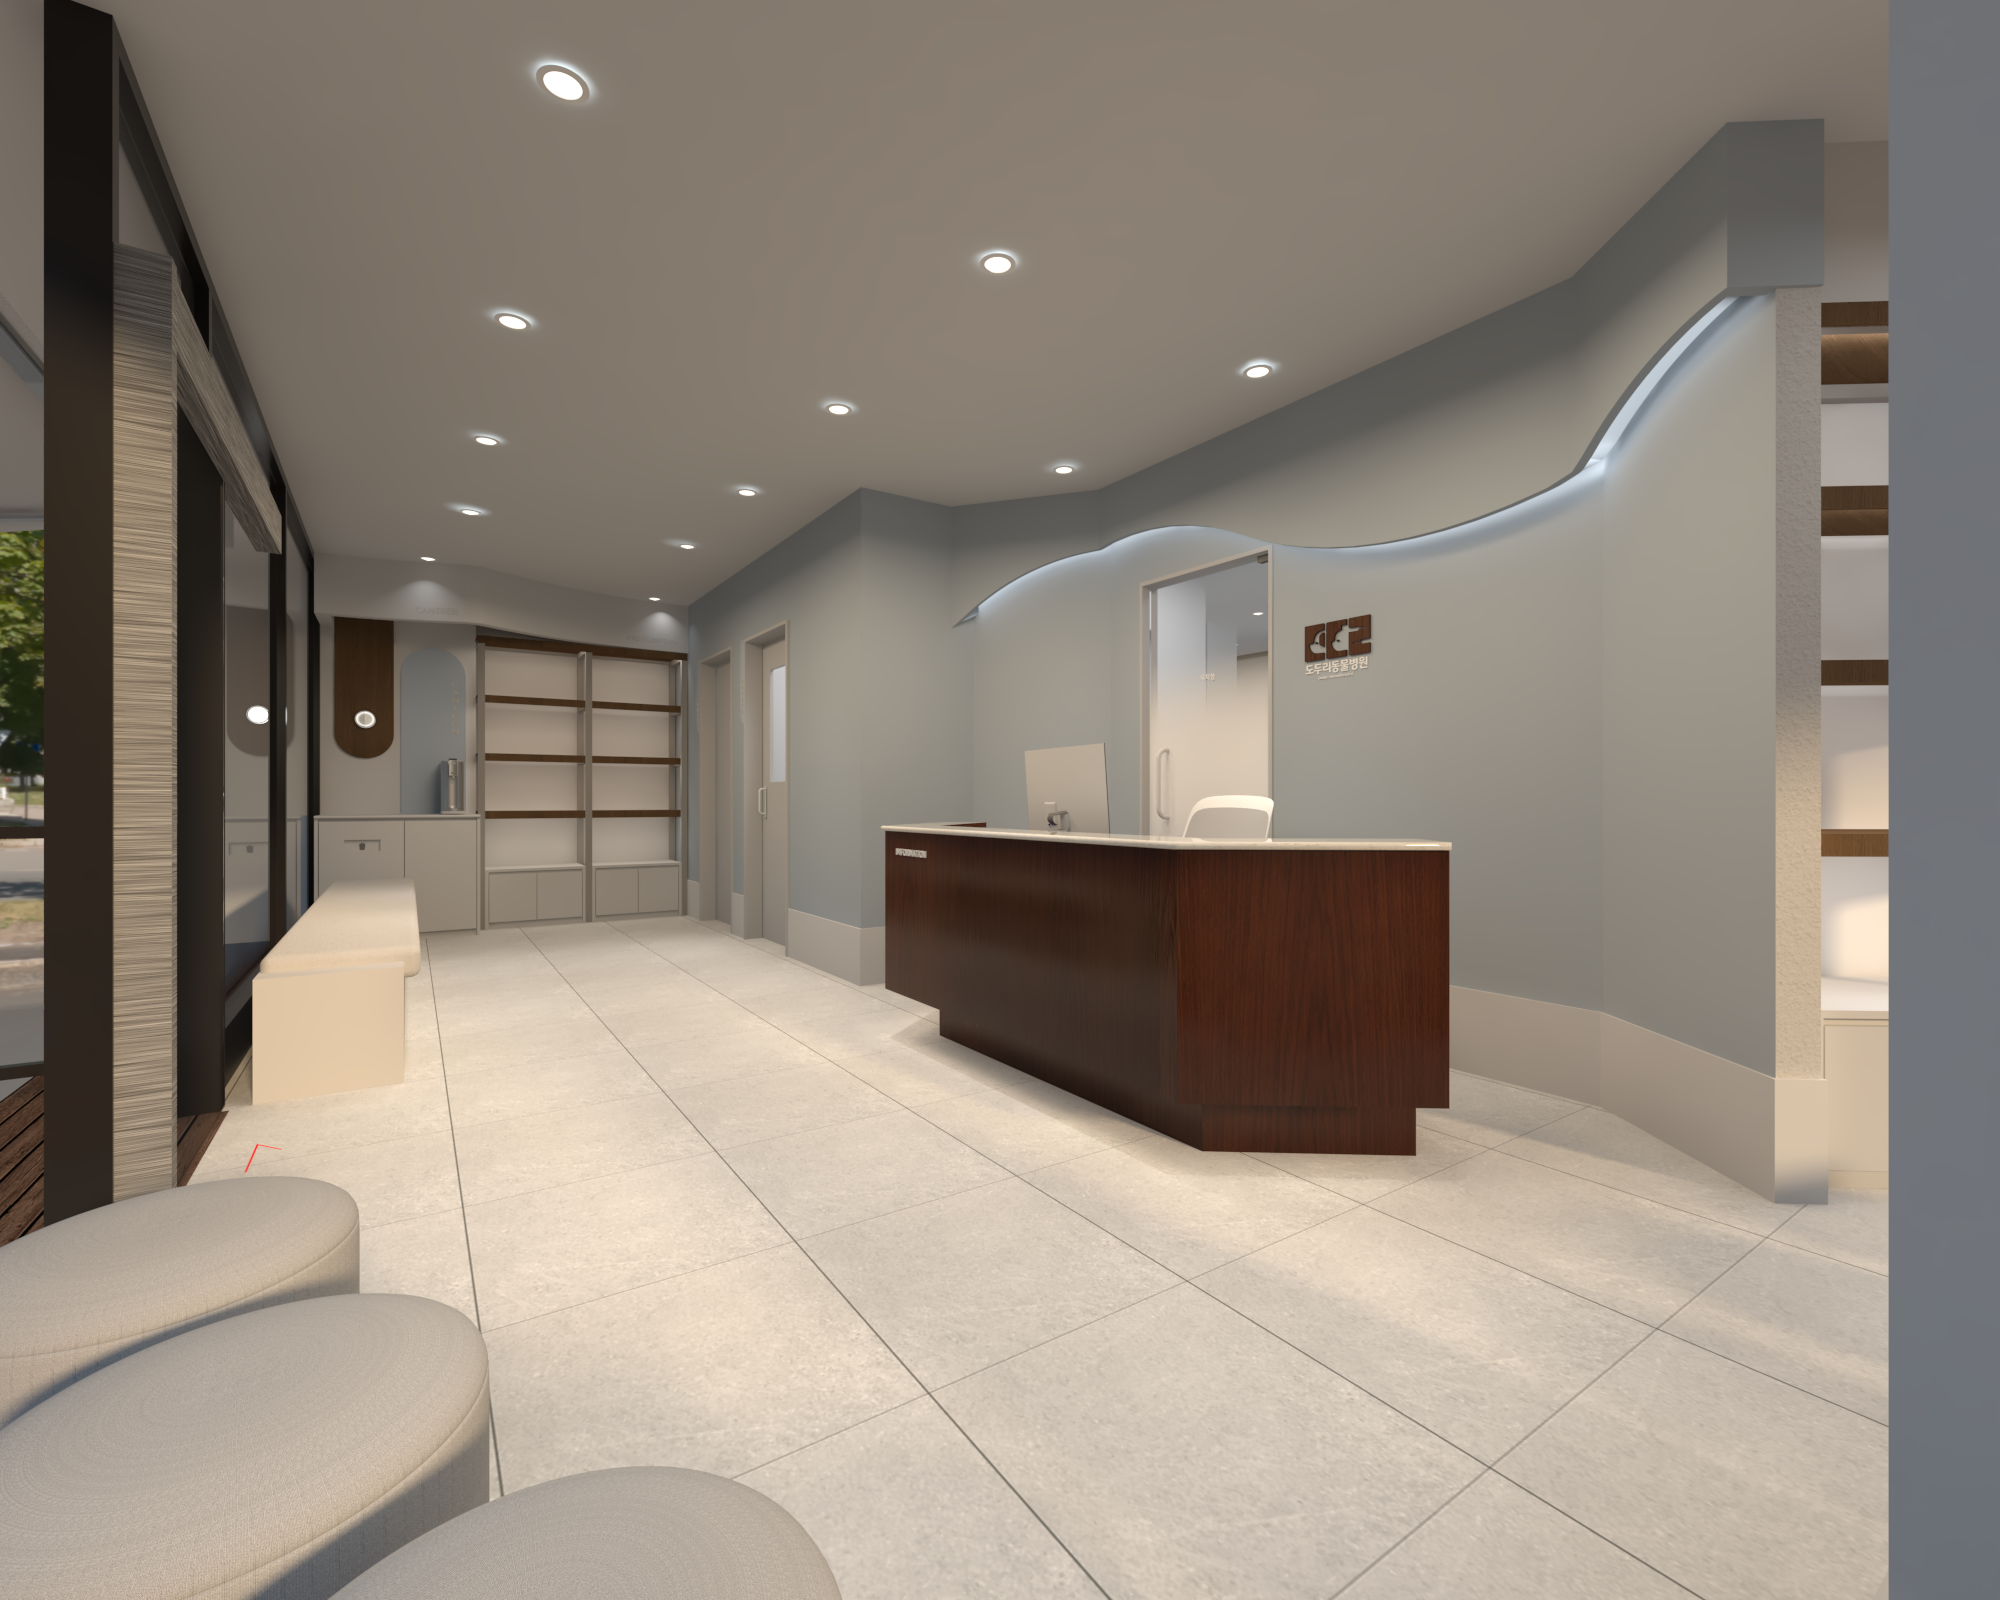
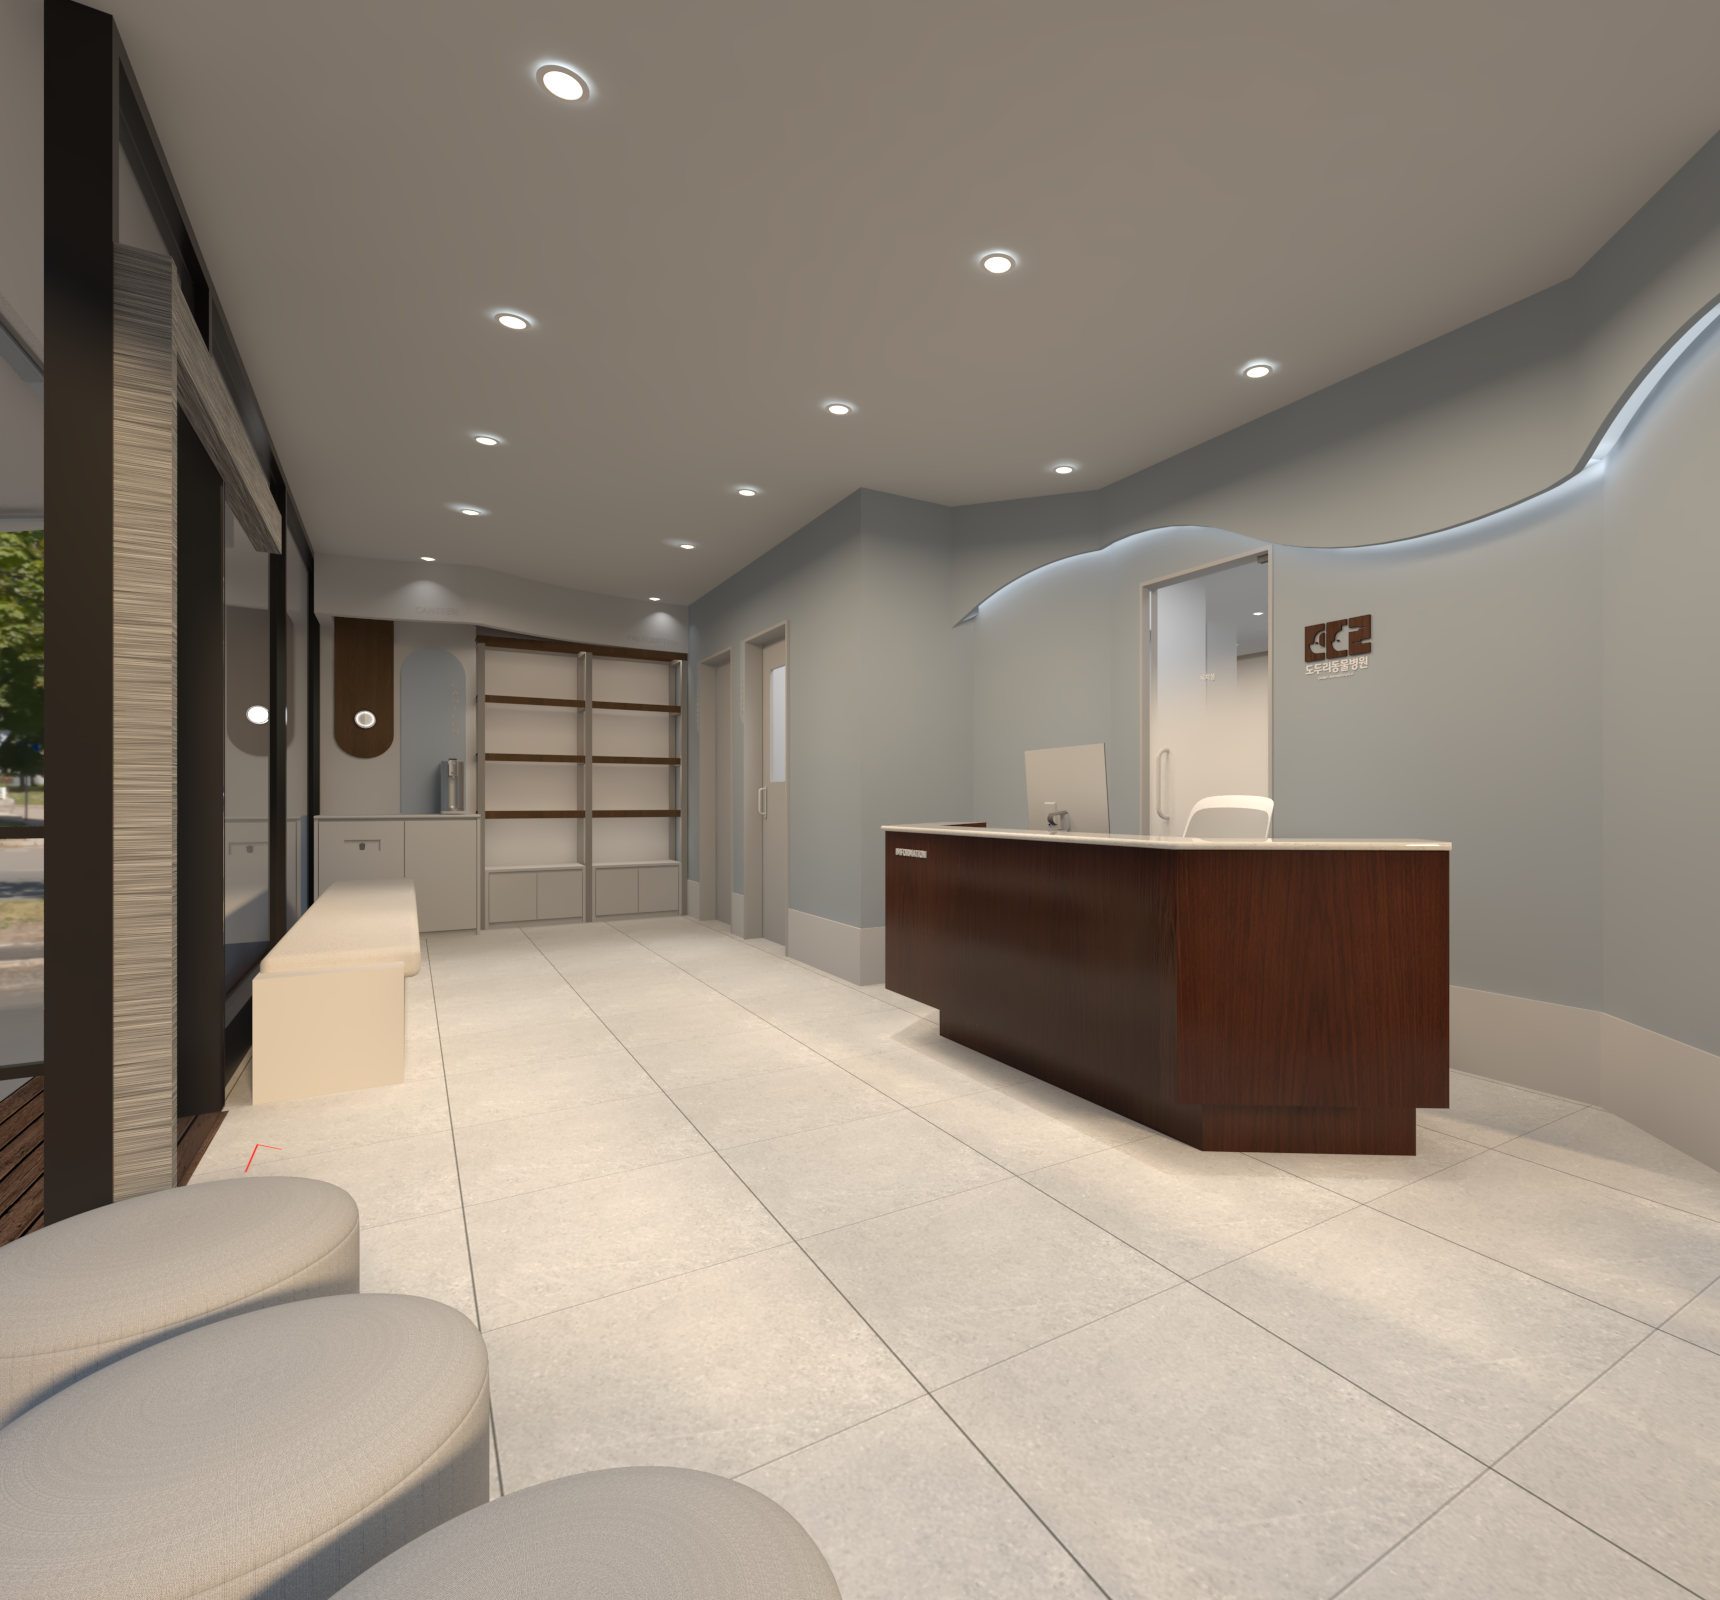
feat(home): 메인 히어로 슬라이더 화살표·UX 개선
- 히어로 슬라이더 좌우 화살표 추가 (position: fixed, right 24px 플로팅 버튼과 동일 선상)
- 히어로 영역 벗어나면 화살표 자동 숨김
- 마우스 드래그·터치 스와이프로 슬라이드 전환
- 도트 인디케이터: 원형 → 슬림 바 스타일, 흰색, 스크롤 힌트와 분리
- 플로팅 버튼(전화·카톡·블로그) 위치 조정 (top 62%)
- 히어로 우측·하단 vignette 그라디언트 추가로 이미지 경계 자연스럽게 처리
- facility1.png 오른쪽 렌더링 여백 280px 크롭
- 시설 슬라이더 aspect-ratio 16/9 → 3/2 (세로형 이미지에 최적화)
- .home-clinic-more .btn-outline: 크림 배경에서 골드 색상으로 가시성 개선
- sync-to-local.ps1 추가 (LocalWP 동기화 스크립트)

diff --git a/wp-content/themes/doduri/assets/css/style.css b/wp-content/themes/doduri/assets/css/style.css
@@ -20,13 +20,14 @@
   --transition: all 0.3s cubic-bezier(0.4,0,0.2,1);
 }
 
-html { scroll-behavior: smooth; }
+html { scroll-behavior: smooth; overflow-x: hidden; }
 
 body {
   font-family: 'Noto Sans KR', sans-serif;
   color: var(--dark);
   background: var(--white);
   line-height: 1.7;
+  overflow-x: hidden;
   overflow-x: hidden;
 }
 
@@ -475,33 +476,47 @@ body.page-home #header.scrolled .hamburger span { background: var(--dark); }
   z-index: 3;
 }
 .hero-prev, .hero-next {
+  position: fixed;
+  top: 50%;
+  transform: translateY(-50%);
+  z-index: 10;
   background: rgba(255,255,255,0.2);
   backdrop-filter: blur(10px);
   border: 1px solid rgba(255,255,255,0.3);
   color: white;
-  width: 44px; height: 44px;
+  width: 48px; height: 48px;
   border-radius: 50%;
   cursor: pointer;
-  font-size: 14px;
+  font-size: 16px;
   transition: var(--transition);
   display: flex; align-items: center; justify-content: center;
 }
+.hero-prev { left: 24px; }
+.hero-next { right: 24px; }
 .hero-prev:hover, .hero-next:hover {
-  background: rgba(255,255,255,0.3);
-  transform: scale(1.1);
+  background: rgba(255,255,255,0.4);
+  transform: translateY(-50%) scale(1.1);
 }
-.hero-dots { display: flex; gap: 8px; }
+.hero-dots {
+  position: absolute;
+  bottom: 72px;
+  left: 50%;
+  transform: translateX(-50%);
+  z-index: 10;
+  display: flex;
+  align-items: center;
+  gap: 6px;
+}
 .dot {
-  width: 8px; height: 8px;
-  border-radius: 50%;
+  width: 20px; height: 2px;
+  border-radius: 2px;
   background: rgba(255,255,255,0.4);
   cursor: pointer;
-  transition: var(--transition);
+  transition: width 0.35s ease, background 0.35s ease;
 }
 .dot.active {
-  background: white;
-  width: 24px;
-  border-radius: 4px;
+  width: 40px;
+  background: #fff;
 }
 
 .hero-scroll-hint {
@@ -1715,13 +1730,14 @@ footer::before {
   border-bottom: 1px solid rgba(255,255,255,0.04);
 }
 
-/* 히어로 하단 vignette 강화 (사진이 자연스럽게 페이드) */
+/* 히어로 vignette — 하단 + 우측 가장자리 자연스럽게 처리 */
 #hero::after {
   content: '';
   position: absolute;
-  bottom: 0; left: 0; right: 0;
-  height: 200px;
-  background: linear-gradient(to top, rgba(250,246,239,0.20) 0%, transparent 100%);
+  inset: 0;
+  background:
+    linear-gradient(to top,  rgba(13,10,8,0.25) 0%, transparent 30%),
+    linear-gradient(to right, transparent 70%, rgba(13,10,8,0.35) 100%);
   pointer-events: none;
   z-index: 4;
 }
@@ -1757,8 +1773,7 @@ footer::before {
 .floating-buttons {
   position: fixed;
   right: 24px;
-  top: 50%;
-  transform: translateY(-50%);
+  top: 62%;
   display: flex;
   flex-direction: column;
   gap: 8px;
@@ -1938,6 +1953,14 @@ footer::before {
   margin-top: 24px;
   text-align: center;
 }
+.home-clinic-more .btn-outline {
+  color: var(--primary);
+  border-color: var(--primary);
+}
+.home-clinic-more .btn-outline:hover {
+  background: var(--primary);
+  color: var(--white);
+}
 
 .home-summary { background: #fff; }
 .home-summary-grid {
@@ -2005,6 +2028,77 @@ footer::before {
 @media (max-width: 900px) {
   .home-clinic-grid { grid-template-columns: 1fr; }
   .home-summary-grid { grid-template-columns: 1fr; }
+}
+
+/* ===== 홈 시설 슬라이더 ===== */
+.home-facility { background: #faf6ef; }
+
+.home-facility-slider {
+  position: relative;
+  margin-top: 36px;
+  border-radius: 12px;
+  overflow: hidden;
+  aspect-ratio: 16 / 9;
+  max-height: 520px;
+  background: #111;
+}
+
+.home-fac-track { width: 100%; height: 100%; position: relative; }
+
+.home-fac-slide {
+  position: absolute;
+  inset: 0;
+  opacity: 0;
+  transition: opacity 0.5s ease;
+}
+.home-fac-slide.active { opacity: 1; z-index: 1; }
+.home-fac-slide img { width: 100%; height: 100%; object-fit: cover; display: block; }
+
+.home-fac-btn {
+  position: absolute;
+  top: 50%;
+  transform: translateY(-50%);
+  z-index: 10;
+  width: 48px;
+  height: 48px;
+  background: rgba(255,255,255,0.15);
+  border: 1.5px solid rgba(255,255,255,0.35);
+  backdrop-filter: blur(6px);
+  border-radius: 50%;
+  color: #fff;
+  font-size: 16px;
+  cursor: pointer;
+  display: flex;
+  align-items: center;
+  justify-content: center;
+  transition: background 0.2s;
+}
+.home-fac-btn:hover { background: rgba(255,255,255,0.35); }
+.home-fac-prev { left: 16px; }
+.home-fac-next { right: 16px; }
+
+.home-fac-counter {
+  position: absolute;
+  bottom: 16px;
+  right: 20px;
+  z-index: 10;
+  font-size: 13px;
+  color: rgba(255,255,255,0.85);
+  background: rgba(0,0,0,0.35);
+  padding: 4px 12px;
+  border-radius: 20px;
+  backdrop-filter: blur(4px);
+}
+.home-fac-current { font-weight: 700; color: #fff; }
+
+.home-facility-more { text-align: center; margin-top: 28px; }
+
+@media (max-width: 768px) {
+  .home-facility-slider { aspect-ratio: 4 / 3; max-height: 300px; }
+  .home-fac-btn { width: 36px; height: 36px; font-size: 13px; }
+  .hero-prev, .hero-next { width: 36px; height: 36px; font-size: 13px; }
+  .hero-prev { left: 12px; }
+  .hero-next { right: 12px; }
 }
 
 /* ===== FAQ ACCORDION (REQ-016) ===== */

diff --git a/wp-content/themes/doduri/assets/js/script.js b/wp-content/themes/doduri/assets/js/script.js
@@ -90,6 +90,47 @@ document.addEventListener('app-ready', function () {
       dot.addEventListener('click', () => { goToSlide(i); resetAutoplay(); });
     });
 
+    // 마우스 드래그
+    const hero = document.getElementById('hero');
+    let dragStartX = 0, isDragging = false;
+    hero.addEventListener('mousedown', e => {
+      if (e.target.closest('.hero-prev, .hero-next, .dot')) return;
+      dragStartX = e.clientX; isDragging = false;
+      hero.style.cursor = 'grabbing';
+    });
+    hero.addEventListener('mousemove', e => {
+      if (!e.buttons) return;
+      if (Math.abs(e.clientX - dragStartX) > 5) isDragging = true;
+    });
+    hero.addEventListener('mouseup', e => {
+      hero.style.cursor = '';
+      if (!isDragging) return;
+      const diff = dragStartX - e.clientX;
+      if (Math.abs(diff) > 40) { goToSlide(diff > 0 ? currentSlide + 1 : currentSlide - 1); resetAutoplay(); }
+      isDragging = false;
+    });
+    hero.addEventListener('mouseleave', () => { hero.style.cursor = ''; isDragging = false; });
+
+    // 터치 스와이프
+    let touchStartX = 0;
+    hero.addEventListener('touchstart', e => { touchStartX = e.touches[0].clientX; }, { passive: true });
+    hero.addEventListener('touchend', e => {
+      const diff = touchStartX - e.changedTouches[0].clientX;
+      if (Math.abs(diff) > 40) { goToSlide(diff > 0 ? currentSlide + 1 : currentSlide - 1); resetAutoplay(); }
+    });
+
+    // 히어로 벗어나면 화살표 숨김
+    const heroEl = document.getElementById('hero');
+    if (heroEl) {
+      const heroArrows = document.querySelectorAll('.hero-prev, .hero-next');
+      const toggleArrows = () => {
+        const bottom = heroEl.getBoundingClientRect().bottom;
+        heroArrows.forEach(a => a.style.visibility = bottom > 60 ? '' : 'hidden');
+      };
+      window.addEventListener('scroll', toggleArrows, { passive: true });
+      toggleArrows();
+    }
+
     startAutoplay();
   }
 
@@ -270,5 +311,40 @@ document.addEventListener('app-ready', function () {
   }, { threshold: 0.3 });
 
   document.querySelectorAll('.section-header').forEach(h => headerIo.observe(h));
+
+  /* ===== 홈 시설 슬라이더 ===== */
+  (function () {
+    const slider = document.querySelector('.home-facility-slider');
+    if (!slider) return;
+
+    const slides    = slider.querySelectorAll('.home-fac-slide');
+    const prevBtn   = slider.querySelector('.home-fac-prev');
+    const nextBtn   = slider.querySelector('.home-fac-next');
+    const currentEl = slider.querySelector('.home-fac-current');
+    let current = 0;
+    let timer;
+
+    function goTo(idx) {
+      slides[current].classList.remove('active');
+      current = (idx + slides.length) % slides.length;
+      slides[current].classList.add('active');
+      if (currentEl) currentEl.textContent = current + 1;
+    }
+
+    function startAuto() { timer = setInterval(() => goTo(current + 1), 5000); }
+    function resetAuto()  { clearInterval(timer); startAuto(); }
+
+    prevBtn.addEventListener('click', () => { goTo(current - 1); resetAuto(); });
+    nextBtn.addEventListener('click', () => { goTo(current + 1); resetAuto(); });
+
+    let touchStartX = 0;
+    slider.addEventListener('touchstart', e => { touchStartX = e.touches[0].clientX; }, { passive: true });
+    slider.addEventListener('touchend', e => {
+      const diff = touchStartX - e.changedTouches[0].clientX;
+      if (Math.abs(diff) > 40) { goTo(diff > 0 ? current + 1 : current - 1); resetAuto(); }
+    });
+
+    startAuto();
+  })();
 
 }); // end app-ready

diff --git a/wp-content/themes/doduri/assets/css/sub.css b/wp-content/themes/doduri/assets/css/sub.css
@@ -210,8 +210,8 @@ main .section {
 .facility-slider-main {
   position: relative;
   width: 100%;
-  aspect-ratio: 16 / 9;
-  max-height: 420px;
+  aspect-ratio: 3 / 2;
+  max-height: 560px;
   background: #111;
   border-radius: 12px;
   overflow: hidden;

diff --git a/wp-content/themes/doduri/front-page.php b/wp-content/themes/doduri/front-page.php
@@ -41,9 +41,11 @@ $hero_desc        = doduri_option( 'home_hero_desc', "임상 경험을 바탕으
 	</div>
 
 	<?php if ( count( $hero_slides ) > 1 ) : ?>
+		<button class="hero-prev" aria-label="<?php esc_attr_e( '이전 슬라이드', 'doduri' ); ?>"><i class="fas fa-chevron-left"></i></button>
+		<button class="hero-next" aria-label="<?php esc_attr_e( '다음 슬라이드', 'doduri' ); ?>"><i class="fas fa-chevron-right"></i></button>
 		<div class="hero-dots">
 			<?php foreach ( $hero_slides as $idx => $img_url ) : ?>
-				<button type="button" class="dot<?php echo 0 === $idx ? ' active' : ''; ?>" data-index="<?php echo (int) $idx; ?>" aria-label="<?php /* translators: %d: 슬라이드 번호 */ printf( esc_attr__( '슬라이드 %d', 'doduri' ), (int) ( $idx + 1 ) ); ?>"></button>
+				<button type="button" class="dot<?php echo 0 === $idx ? ' active' : ''; ?>" data-index="<?php echo (int) $idx; ?>" aria-label="<?php printf( esc_attr__( '슬라이드 %d', 'doduri' ), (int) ( $idx + 1 ) ); ?>"></button>
 			<?php endforeach; ?>
 		</div>
 	<?php endif; ?>